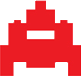
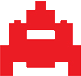
Gameplay and graphics

diff --git a/lib/game/entities/ship.js b/lib/game/entities/ship.js
@@ -4,8 +4,8 @@ requires('impact.entity', 'game.entities.particle').defines(function ()
     EntityShip = ig.Entity.extend(
     {
         size: {
-            x: 102,
-            y: 83
+            x: 81,
+            y: 76
         },
         offset: {
             x: 0,
@@ -22,7 +22,7 @@ requires('impact.entity', 'game.entities.particle').defines(function ()
         type: ig.Entity.TYPE.A,
         checkAgainst: ig.Entity.TYPE.B,
         collides: ig.Entity.COLLIDES.ACTIVE,
-        health: 1000,
+        health: 2000,
         shootTimer: null,
         shootWaitTimer: null,
         reverseTimer: null,
@@ -30,12 +30,12 @@ requires('impact.entity', 'game.entities.particle').defines(function ()
         blinkTimer:null,
         canShoot: false,
         scaleTimer: new ig.Timer(0),
-        animSheet: new ig.AnimationSheet('media/ship_02.png', 102, 83),
+        animSheet: new ig.AnimationSheet('media/ship.png', 81, 76),
         sfxHit: new ig.Sound('media/sounds/wetgib.ogg'),
         scale: { x: 1, y: 1 },  //user-defined scale
         _offset: { x: 0, y: 0 },    //cached offset prior to scaling
         _scale: { x: 1, y: 1 }, //scale relative to ig.system.scale
-        _size: { x: 254, y: 121 },  //cached size prior to scaling
+        _size: { x: 81, y: 76 },  //cached size prior to scaling
         
 
         init: function (x, y, settings)
@@ -47,7 +47,7 @@ requires('impact.entity', 'game.entities.particle').defines(function ()
             this.reverseTimer = new ig.Timer(3.5);
             this.addAnim('idle', 0.5, [0]);
             this.addAnim('shoot', 0.5, [0]);
-            this.addAnim('hit', 0.1, [0]);
+            this.addAnim('hit', 0.1, [1]);
             this._offset.x = this.offset.x;
             this._offset.y = this.offset.y;
             this._size.x = this.size.x;
@@ -59,10 +59,10 @@ requires('impact.entity', 'game.entities.particle').defines(function ()
         {
             var maxX = ig.game.collisionMap.width * ig.game.collisionMap.tilesize;
             var maxY = ig.game.collisionMap.height * ig.game.collisionMap.tilesize;
-            if(this.pos.x > maxX){
+            if(this.pos.x > maxX+20){
                 this.move = 'left'
             }
-            else if( this.pos.x <=0){
+            else if( this.pos.x <=20){
                 this.move =  'right';
             }
       

diff --git a/lib/game/entities/ufo.js b/lib/game/entities/ufo.js
@@ -23,7 +23,7 @@ requires('impact.entity', 'game.entities.particle').defines(function ()
         type: ig.Entity.TYPE.B,
         checkAgainst: ig.Entity.TYPE.A,
         collides: ig.Entity.COLLIDES.ACTIVE,
-        health: 50,
+        health: 150,
         shootTimer: null,
         shootWaitTimer: null,
         reverseTimer: null,
@@ -32,7 +32,7 @@ requires('impact.entity', 'game.entities.particle').defines(function ()
         direction_set: false,
         canShoot: false,
         scaleTimer: new ig.Timer(0),
-        animSheet: new ig.AnimationSheet('media/vw/enemy_spaceship_sm.png', 104, 38),
+        animSheet: new ig.AnimationSheet('media/alien.png', 104, 38),
         sfxHit: new ig.Sound('media/sounds/wetgib.ogg'),
         scale: { x: 1, y: 1 },  //user-defined scale
         _offset: { x: 0, y: 0 },    //cached offset prior to scaling
@@ -49,7 +49,9 @@ requires('impact.entity', 'game.entities.particle').defines(function ()
             this.reverseTimer = new ig.Timer(3.5);
             this.addAnim('idle', 0.5, [0]);
             this.addAnim('shoot', 0.5, [0]);
-            this.addAnim('hit', 0.1, [0]);
+            this.addAnim('hit', 0.1, [2]);
+            this.addAnim('die', 0.1, [1]);
+            
             this._offset.x = this.offset.x;
             this._offset.y = this.offset.y;
             this._size.x = this.size.x;
@@ -132,6 +134,7 @@ requires('impact.entity', 'game.entities.particle').defines(function ()
         kill: function ()
         {
             //ig.game.screentext="500";
+            this.anims.die
             
             //ig.game.score+=500;
             this.spawnGibs(100);
@@ -147,7 +150,7 @@ requires('impact.entity', 'game.entities.particle').defines(function ()
         var maxAlpha = this.health/100;
         var minAlpha = maxAlpha/10;
         this.currentAnim.alpha = 0.5;
-        
+        this.currentAnim=this.anims.hit
             this.currentAnim = this.anims.hit.rewind();
            // this.spawnGibs(1);
            // this.scaleTimer.set(0.05);

diff --git a/lib/game/entities/player.js b/lib/game/entities/player.js
@@ -41,7 +41,7 @@ ig.module('game.entities.player').requires('impact.entity', 'game.entities.parti
         idleTimer: null,
         sfxLaser: new ig.Sound('media/sounds/laser3.*'),
         sfxDie: new ig.Sound('media/sounds/die-respawn.*', false),
-        animSheet: new ig.AnimationSheet('media/vw/enemy_spaceship_sm.png', 104, 38),
+        animSheet: new ig.AnimationSheet('media/alien.png', 104, 38),
         init: function (x, y, settings)
         {
             //console.log(this.animSheet);
@@ -53,7 +53,7 @@ ig.module('game.entities.player').requires('impact.entity', 'game.entities.parti
             this.addAnim('idle', 1, [0]);
             this.addAnim('accelerate', 0.1, [0]);
             this.addAnim('fall', 1, [0]);
-            this.addAnim('die', 0.07, [0]);
+            this.addAnim('die', 0.07, [1]);
             this.addAnim('spawn', 0.07, [0]);
         },
 		getCenterPos: function(){
@@ -282,6 +282,7 @@ ig.module('game.entities.player').requires('impact.entity', 'game.entities.parti
         },
         kill: function ()
         {
+            this.anims.die
             this.parent();
             if(ig.game.livesLeft==0){
             	ig.game.end();
